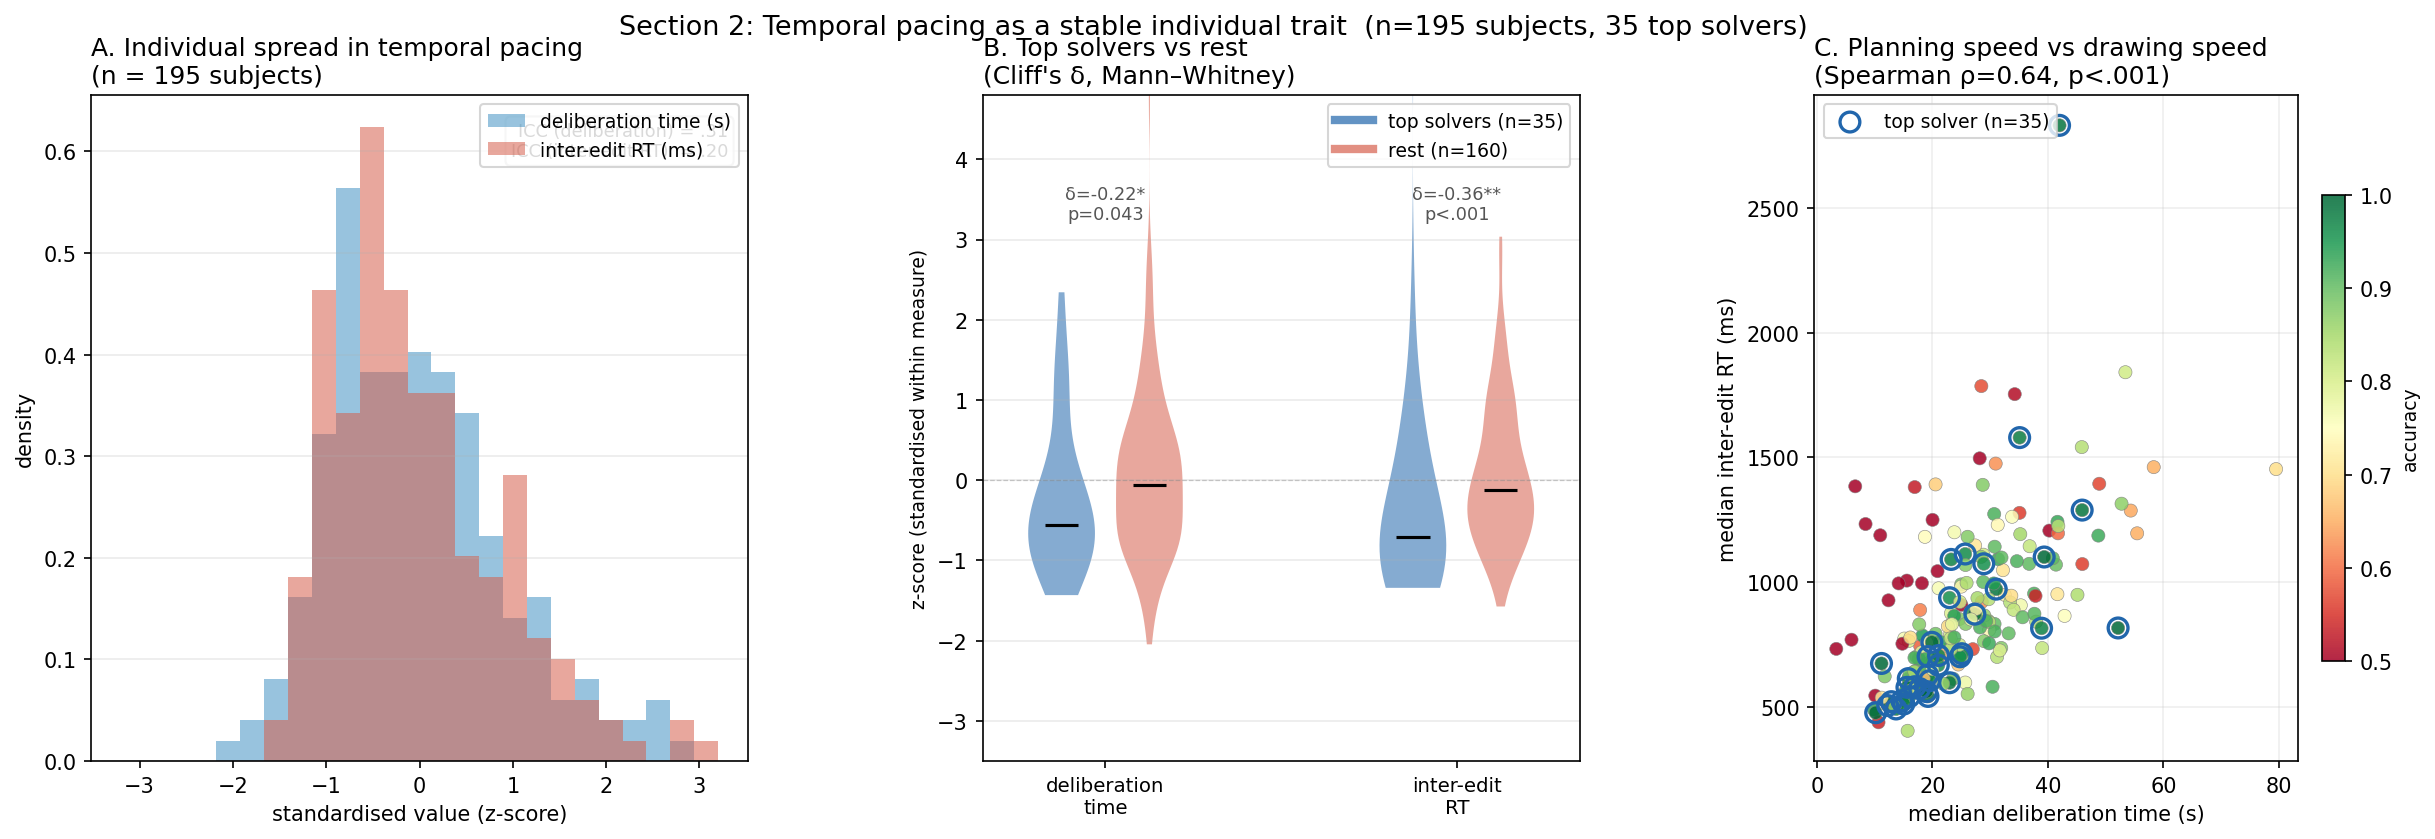
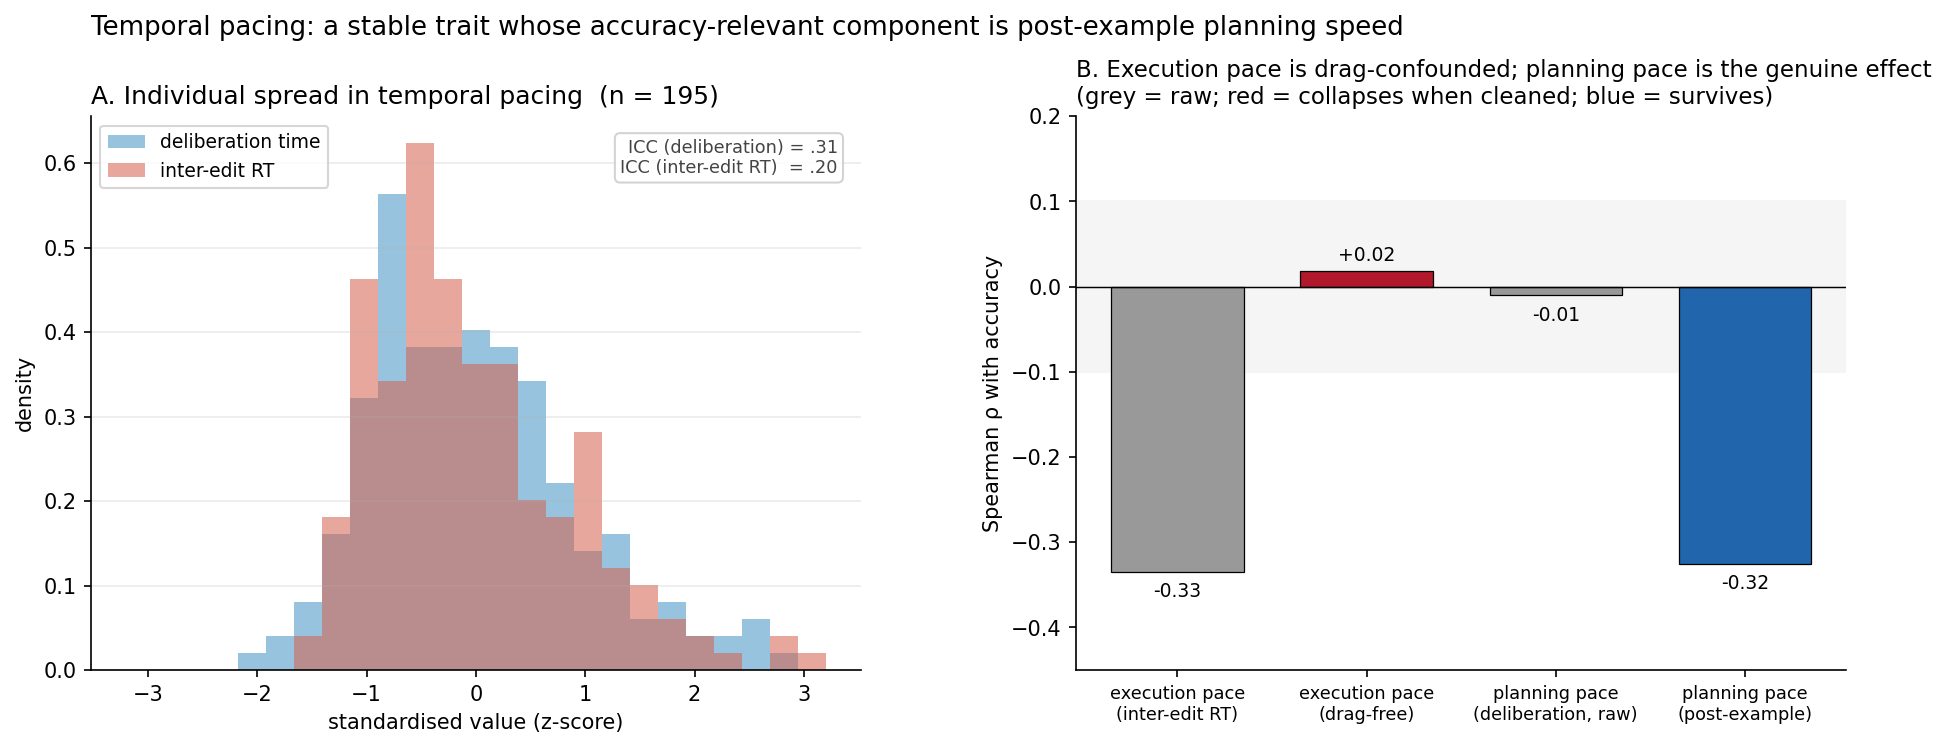
Make fig2 (pacing) and fig8 (practice curves) continuous — drop top-solver split
- fig2 (plot_temporal_pacing.py): replaced the top-vs-rest Cliff's-δ violin panel
  with a continuous panel — execution pace (inter-edit RT) raw −.33 vs drag-free
  +.02, planning pace (deliberation) raw −.01 vs post-example −.32. Panel A
  (individual spread) kept. No top-solver split.
- fig8 (plot_practice_curves.py): Panel B per-subject learning-rate β vs CONTINUOUS
  accuracy with LOWESS (ρ=+.24), replacing the top-vs-rest coloured scatter.

(Outline also drops fig10, whose "two faces of one drawing-fluency dimension"
framing is superseded by the separability conclusion; fig5 covers Part 4.)

diff --git a/plot_temporal_pacing.py b/plot_temporal_pacing.py
@@ -1,18 +1,16 @@
 """
-Figure: temporal pacing as a stable individual trait (Section 2).
+Figure: temporal pacing (Part 2) — continuous accuracy, no top-solver split.
 
-Three panels:
+Two panels:
+    A. Individual spread in the two timing measures (deliberation time, inter-edit
+       RT), showing the range of stable between-person differences.
+    B. Pacing × accuracy decomposed: execution pace (inter-edit RT during drawing)
+       correlates with accuracy bivariately but is drag-confounded — measured
+       drag-free it is ~0; planning pace (deliberation) is null overall but its
+       post-example component is a genuine predictor.
 
-    A. Histograms of per-subject deliberation time and inter-edit RT,
-       showing the range of individual differences across participants.
-
-    B. Top-solver vs rest violin plots for both timing measures,
-       with Cliff's delta and Mann-Whitney p annotated.
-
-    C. Scatter of deliberation time vs inter-edit RT per subject,
-       coloured by accuracy, with Spearman ρ annotated.
-
-Reads from prior_analysis/chunking_top_solvers_merged.csv.
+Reads chunking_top_solvers_merged.csv, controlled_accuracy_correlations.csv,
+drag_sensitivity_profile.csv.
 """
 
 from __future__ import annotations
@@ -20,169 +18,79 @@ from __future__ import annotations
 import _paths  # noqa: F401
 import argparse
 import os
-
 import numpy as np
 import pandas as pd
 import matplotlib.pyplot as plt
-from matplotlib.gridspec import GridSpec
-from matplotlib.lines import Line2D
-from scipy.stats import spearmanr, mannwhitneyu
-
-
-COLOR_TOP  = "#2166ac"
-COLOR_REST = "#d6604d"
-
-
-def _cliffs_delta(x: np.ndarray, y: np.ndarray) -> float:
-    x = x[np.isfinite(x)]
-    y = y[np.isfinite(y)]
-    gt = int(np.sum(np.subtract.outer(x, y) > 0))
-    lt = int(np.sum(np.subtract.outer(x, y) < 0))
-    return (gt - lt) / (len(x) * len(y))
+from scipy.stats import spearmanr
 
 
 def main():
     ap = argparse.ArgumentParser()
     ap.add_argument("--prior_dir", default="prior_analysis")
-    ap.add_argument("--out",
-                    default="prior_analysis/temporal_pacing_figure.png")
+    ap.add_argument("--out", default="prior_analysis/temporal_pacing_figure.png")
     args = ap.parse_args()
+    P = args.prior_dir
 
-    df = pd.read_csv(os.path.join(args.prior_dir,
-                                  "chunking_top_solvers_merged.csv"))
-    sub = df[["deliberation_time_median", "mean_rt_median",
-              "accuracy", "top_solver"]].dropna()
+    df = pd.read_csv(os.path.join(P, "chunking_top_solvers_merged.csv"))
+    sub = df[["deliberation_time_median", "mean_rt_median", "accuracy"]].dropna()
+    dt = sub["deliberation_time_median"] / 1000.0   # s
+    rt = sub["mean_rt_median"]                       # ms
 
-    top  = sub["top_solver"].astype(bool)
-    rest = ~top
+    ctrl = pd.read_csv(os.path.join(P, "controlled_accuracy_correlations.csv")).set_index("feature")
+    ds = pd.read_csv(os.path.join(P, "drag_sensitivity_profile.csv"))
+    exec_raw = float(ctrl.loc["mean_rt_between_edits", "rho_raw"])
+    exec_free = float(spearmanr(ds["rt_click"], ds["accuracy"]).statistic)
+    plan_raw = float(ctrl.loc["deliberation_time", "rho_raw"])
+    plan_ctrl = float(ctrl.loc["deliberation_time", "rho_ctrl"])
 
-    dt  = sub["deliberation_time_median"] / 1000   # ms → s
-    rt  = sub["mean_rt_median"]                    # stay in ms
-    acc = sub["accuracy"]
+    fig, (axA, axB) = plt.subplots(1, 2, figsize=(13, 5.2),
+                                   gridspec_kw=dict(wspace=0.28, left=0.07,
+                                                    right=0.97, top=0.84, bottom=0.13))
 
-    dt_top  = dt[top].values;   dt_rest  = dt[rest].values
-    rt_top  = rt[top].values;   rt_rest  = rt[rest].values
-
-    fig = plt.figure(figsize=(17, 6))
-    gs  = GridSpec(1, 3, figure=fig, width_ratios=[1.1, 1.0, 1.0],
-                   wspace=0.38, left=0.06, right=0.97, top=0.87, bottom=0.13)
-
-    # ── Panel A: overlapping histograms, one per timing measure ──────────────
-    axA = fig.add_subplot(gs[0, 0])
-
-    # Normalise both to the same x-axis (z-score across the full sample)
+    # ── Panel A: individual spread ────────────────────────────────────────────
     dt_z = (dt - dt.mean()) / dt.std()
     rt_z = (rt - rt.mean()) / rt.std()
-
     bins = np.linspace(-3.2, 3.2, 26)
-    axA.hist(dt_z, bins=bins, alpha=0.55, color="#4393c3",
-             label="deliberation time (s)", density=True)
-    axA.hist(rt_z, bins=bins, alpha=0.55, color="#d6604d",
-             label="inter-edit RT (ms)", density=True)
-
+    axA.hist(dt_z, bins=bins, alpha=0.55, color="#4393c3", density=True,
+             label="deliberation time")
+    axA.hist(rt_z, bins=bins, alpha=0.55, color="#d6604d", density=True,
+             label="inter-edit RT")
     axA.set_xlabel("standardised value (z-score)", fontsize=10)
     axA.set_ylabel("density", fontsize=10)
-    axA.set_title(
-        "A. Individual spread in temporal pacing\n"
-        f"(n = {len(sub)} subjects)",
-        loc="left", fontsize=12,
-    )
-    axA.legend(fontsize=9)
-    axA.grid(axis="y", alpha=0.25)
-
-    # Annotate ICC values from document
-    axA.text(0.97, 0.96,
-             "ICC (deliberation) = .31\nICC (inter-edit RT)  = .20",
-             transform=axA.transAxes, ha="right", va="top",
-             fontsize=8.5, color="#444444",
-             bbox=dict(boxstyle="round,pad=0.3", fc="white", ec="#cccccc", alpha=0.85))
-
-    # ── Panel B: violin plots, top vs rest — z-scored so both fit one axis ────
-    axB = fig.add_subplot(gs[0, 1])
-
-    # Z-score each measure across the full sample so they share one y-axis
-    dt_z_full = (dt - dt.mean()) / dt.std()
-    rt_z_full = (rt - rt.mean()) / rt.std()
-
-    dt_z_top  = dt_z_full[top].values;  dt_z_rest  = dt_z_full[rest].values
-    rt_z_top  = rt_z_full[top].values;  rt_z_rest  = rt_z_full[rest].values
-
-    measures  = [dt_z_top, dt_z_rest, rt_z_top, rt_z_rest]
-    positions = [0.75, 1.25, 2.75, 3.25]
-    colors    = [COLOR_TOP, COLOR_REST, COLOR_TOP, COLOR_REST]
-
-    for vals, pos, color in zip(measures, positions, colors):
-        vp = axB.violinplot(vals, positions=[pos], widths=0.38,
-                            showmedians=True, showextrema=False)
-        for pc in vp["bodies"]:
-            pc.set_facecolor(color)
-            pc.set_alpha(0.55)
-        vp["cmedians"].set_color("black")
-        vp["cmedians"].set_linewidth(1.5)
-
-    # Annotate effect sizes just above the top of the data range
-    y_top = axB.get_ylim()[1]
-    for x_pair, a_raw, b_raw in [
-        (1.0, dt_top, dt_rest),
-        (3.0, rt_top, rt_rest),
-    ]:
-        d = _cliffs_delta(a_raw, b_raw)
-        _, p = mannwhitneyu(a_raw, b_raw, alternative="two-sided")
-        sig = "**" if p < 0.01 else ("*" if p < 0.05 else "")
-        p_str = "p<.001" if p < 0.001 else f"p={p:.3f}"
-        axB.text(x_pair, 3.2, f"δ={d:+.2f}{sig}\n{p_str}",
-                 ha="center", va="bottom", fontsize=8.5, color="#555555")
-
-    axB.set_xlim(0.3, 3.7)
-    axB.set_ylim(-3.5, 4.8)
-    axB.set_xticks([1.0, 3.0])
-    axB.set_xticklabels(["deliberation\ntime", "inter-edit\nRT"], fontsize=9.5)
-    axB.set_ylabel("z-score (standardised within measure)", fontsize=9)
-    axB.axhline(0, color="grey", lw=0.6, ls="--", alpha=0.4)
-    axB.set_title("B. Top solvers vs rest\n(Cliff's δ, Mann–Whitney)",
+    axA.set_title(f"A. Individual spread in temporal pacing  (n = {len(sub)})",
                   loc="left", fontsize=12)
-    axB.grid(axis="y", alpha=0.25)
+    axA.text(0.97, 0.96, "ICC (deliberation) = .31\nICC (inter-edit RT)  = .20",
+             transform=axA.transAxes, ha="right", va="top", fontsize=8.5,
+             color="#444444",
+             bbox=dict(boxstyle="round,pad=0.3", fc="white", ec="#cccccc", alpha=0.85))
+    axA.legend(fontsize=9, loc="upper left")
+    axA.grid(axis="y", alpha=0.25)
+    axA.spines[["top", "right"]].set_visible(False)
 
-    legend_handles = [
-        Line2D([0], [0], color=COLOR_TOP,  lw=4, alpha=0.7,
-               label=f"top solvers (n={top.sum()})"),
-        Line2D([0], [0], color=COLOR_REST, lw=4, alpha=0.7,
-               label=f"rest (n={rest.sum()})"),
-    ]
-    axB.legend(handles=legend_handles, fontsize=9, loc="upper right")
+    # ── Panel B: pacing × accuracy decomposition ──────────────────────────────
+    items = [("execution pace\n(inter-edit RT)", exec_raw, "raw", "#999999"),
+             ("execution pace\n(drag-free)", exec_free, "clean", "#b2182b"),
+             ("planning pace\n(deliberation, raw)", plan_raw, "raw", "#999999"),
+             ("planning pace\n(post-example)", plan_ctrl, "clean", "#2166ac")]
+    x = np.arange(len(items))
+    vals = [v for _, v, _, _ in items]
+    cols = [c for _, _, _, c in items]
+    axB.bar(x, vals, color=cols, edgecolor="black", lw=0.6, width=0.7)
+    for xi, v in zip(x, vals):
+        axB.text(xi, v + (0.012 if v >= 0 else -0.03), f"{v:+.2f}", ha="center", fontsize=9)
+    axB.axhline(0, color="black", lw=0.7)
+    axB.axhspan(-0.10, 0.10, color="#f5f5f5", zorder=0)
+    axB.set_xticks(x)
+    axB.set_xticklabels([lab for lab, *_ in items], fontsize=8.5)
+    axB.set_ylabel("Spearman ρ with accuracy", fontsize=10)
+    axB.set_ylim(-0.45, 0.2)
+    axB.set_title("B. Execution pace is drag-confounded; planning pace is the genuine effect\n"
+                  "(grey = raw; red = collapses when cleaned; blue = survives)",
+                  loc="left", fontsize=11)
+    axB.spines[["top", "right"]].set_visible(False)
 
-    # ── Panel C: deliberation time vs inter-edit RT scatter ──────────────────
-    axC = fig.add_subplot(gs[0, 2])
-
-    sc = axC.scatter(dt, rt,
-                     c=acc, cmap="RdYlGn", vmin=0.5, vmax=1.0,
-                     s=40, alpha=0.85, edgecolors="grey",
-                     linewidths=0.3, zorder=3)
-
-    # Ring top solvers
-    axC.scatter(dt[top], rt[top],
-                s=90, facecolors="none", edgecolors=COLOR_TOP,
-                linewidths=1.6, zorder=4, label=f"top solver (n={top.sum()})")
-
-    rho, p = spearmanr(dt, rt)
-    p_str = "p<.001" if p < 0.001 else f"p={p:.3f}"
-    axC.set_xlabel("median deliberation time (s)", fontsize=10)
-    axC.set_ylabel("median inter-edit RT (ms)", fontsize=10)
-    axC.set_title(
-        f"C. Planning speed vs drawing speed\n(Spearman ρ={rho:.2f}, {p_str})",
-        loc="left", fontsize=12,
-    )
-    axC.legend(fontsize=9)
-    axC.grid(alpha=0.2)
-    cbar = fig.colorbar(sc, ax=axC, shrink=0.7, pad=0.04)
-    cbar.ax.set_ylabel("accuracy", fontsize=9)
-
-    fig.suptitle(
-        f"Section 2: Temporal pacing as a stable individual trait  "
-        f"(n={len(sub)} subjects, {top.sum()} top solvers)",
-        fontsize=13, y=0.96,
-    )
-
+    fig.suptitle("Temporal pacing: a stable trait whose accuracy-relevant component is "
+                 "post-example planning speed", fontsize=12.5, x=0.07, ha="left", y=0.97)
     os.makedirs(os.path.dirname(args.out), exist_ok=True)
     fig.savefig(args.out, dpi=150, bbox_inches="tight")
     print(f"saved {args.out}")

diff --git a/plot_practice_curves.py b/plot_practice_curves.py
@@ -120,19 +120,16 @@ def main():
     axA.legend(fontsize=9, loc="upper right")
     axA.grid(alpha=0.25)
 
-    # ── Panel B: per-subject exp β vs accuracy, coloured by top solver ────────
+    # ── Panel B: per-subject exp β vs continuous accuracy ────────────────────
     axC = fig.add_subplot(gs[0, 1])
-    rest_mask = ~rt_sub["top_solver"].astype(bool)
-    top_mask  =  rt_sub["top_solver"].astype(bool)
+    axC.scatter(rt_sub["accuracy"], rt_sub["exp_b"],
+                s=42, alpha=0.7, color="#2166ac",
+                edgecolors="white", linewidths=0.4)
 
-    axC.scatter(rt_sub.loc[rest_mask, "accuracy"],
-                rt_sub.loc[rest_mask, "exp_b"],
-                s=35, alpha=0.55, color=COLOR_REST,
-                edgecolors="white", linewidths=0.4, label=f"rest (n={int(rest_mask.sum())})")
-    axC.scatter(rt_sub.loc[top_mask, "accuracy"],
-                rt_sub.loc[top_mask, "exp_b"],
-                s=70, alpha=0.85, color=COLOR_TOP, marker="o",
-                edgecolors="white", linewidths=0.6, label=f"top (n={int(top_mask.sum())})")
+    # LOWESS trend
+    from statsmodels.nonparametric.smoothers_lowess import lowess
+    lo = lowess(rt_sub["exp_b"], rt_sub["accuracy"], frac=0.7, return_sorted=True)
+    axC.plot(lo[:, 0], lo[:, 1], color="#b2182b", lw=2)
 
     axC.axhline(0, color="black", lw=0.6, ls="--", alpha=0.4)
     rho, p = spearmanr(rt_sub["accuracy"], rt_sub["exp_b"])
@@ -143,11 +140,10 @@ def main():
              fontsize=10, color="#333333",
              bbox=dict(boxstyle="round,pad=0.3", fc="white", ec="#cccccc", alpha=0.9))
 
-    axC.set_xlabel("Overall accuracy", fontsize=10)
+    axC.set_xlabel("Overall accuracy (continuous)", fontsize=10)
     axC.set_ylabel("Per-subject exponential β\n(more negative = faster speedup)", fontsize=10)
-    axC.set_title("B. Top solvers have flatter learning curves\n(consistent with Ackerman 1988)",
+    axC.set_title("B. Flatter learning curves go with higher accuracy\n(Ackerman 1988)",
                   loc="left", fontsize=11.5, fontweight="bold")
-    axC.legend(fontsize=9, loc="upper right")
     axC.grid(alpha=0.25)
 
     fig.suptitle(
